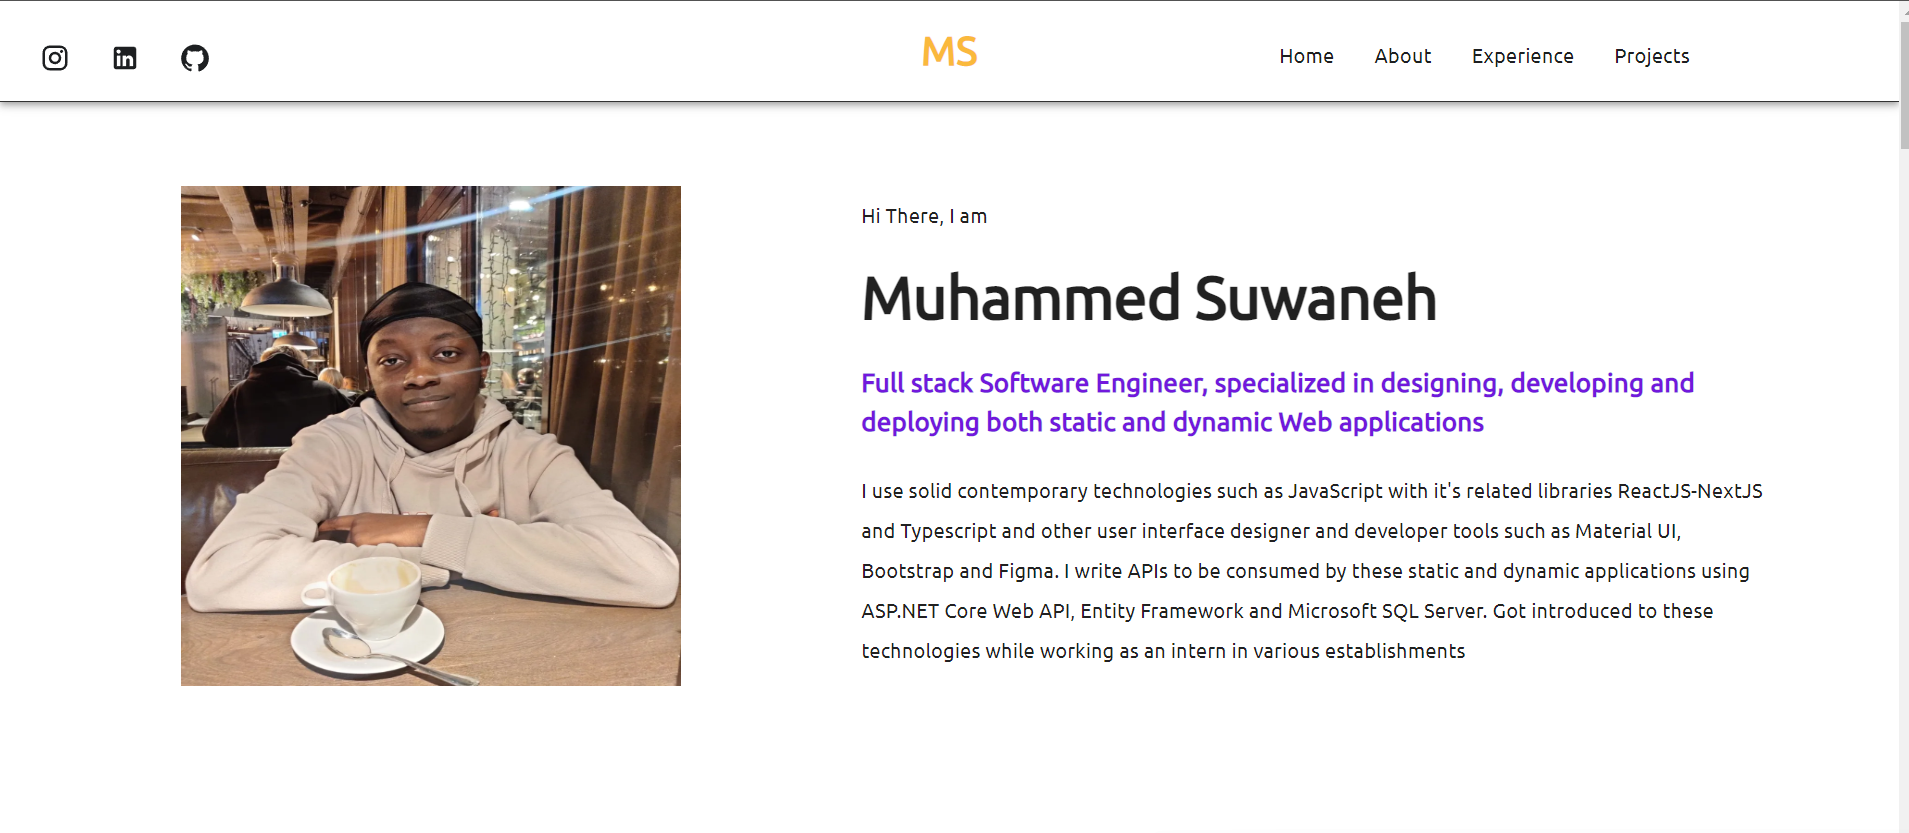
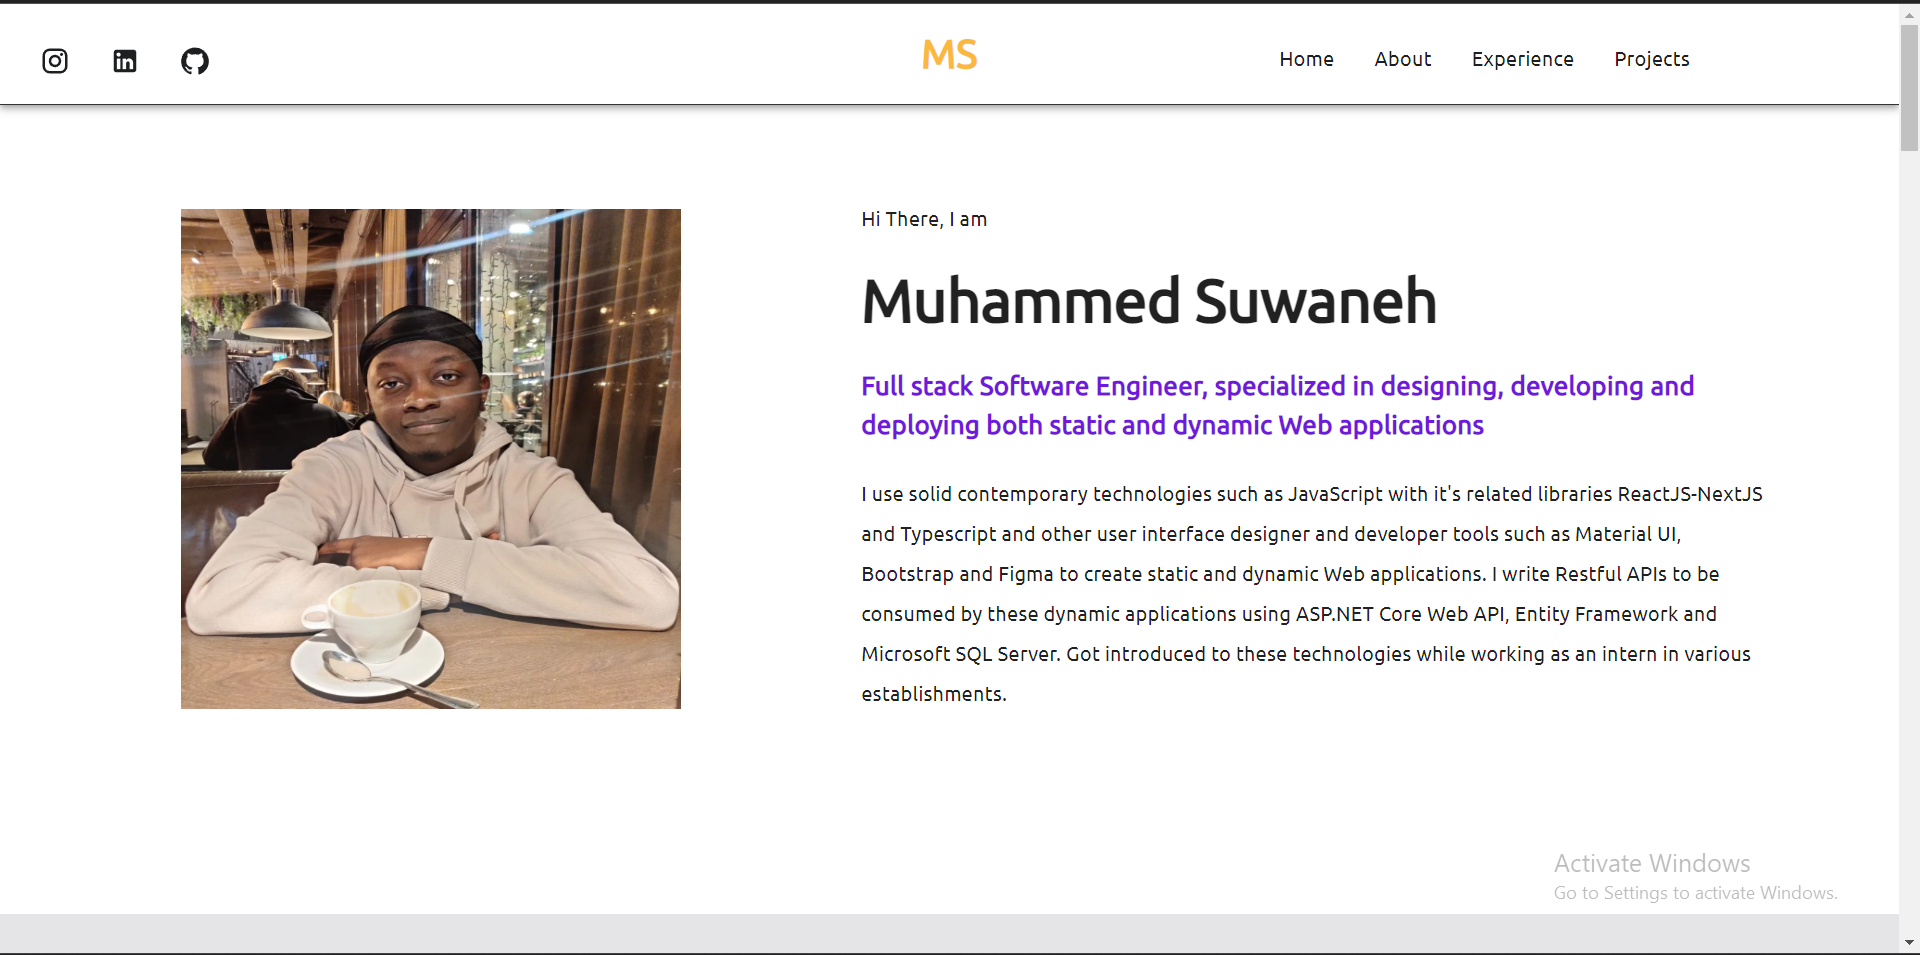
about intro modified

diff --git a/src/components/About/About.jsx b/src/components/About/About.jsx
@@ -30,9 +30,9 @@ export default function About() {
                 Full stack Software Engineer, specialized in designing, developing and deploying both static and dynamic Web applications
             </Typography>
             <Typography sx={{ lineHeight: "2rem"}}>
-            I use solid contemporary technologies such as JavaScript with it's related libraries ReactJS-NextJS and Typescript and other user interface designer and developer tools such as 
-            Material UI, Bootstrap and Figma. I write APIs to be consumed by these static and dynamic applications using ASP.NET Core Web API, Entity Framework and Microsoft SQL Server. Got introduced 
-            to these technologies while working as an intern in various establishments
+            I use solid contemporary  technologies such as JavaScript with it's related libraries ReactJS-NextJS and Typescript and other user interface designer and developer tools such as Material UI, 
+            Bootstrap and Figma to create static and dynamic Web applications. I write Restful APIs to be consumed by these dynamic applications using ASP.NET Core Web API, 
+            Entity Framework and Microsoft SQL Server. Got introduced to these technologies while working as an intern in various establishments.
             </Typography>
         </Grid>
     </AboutContainer>
